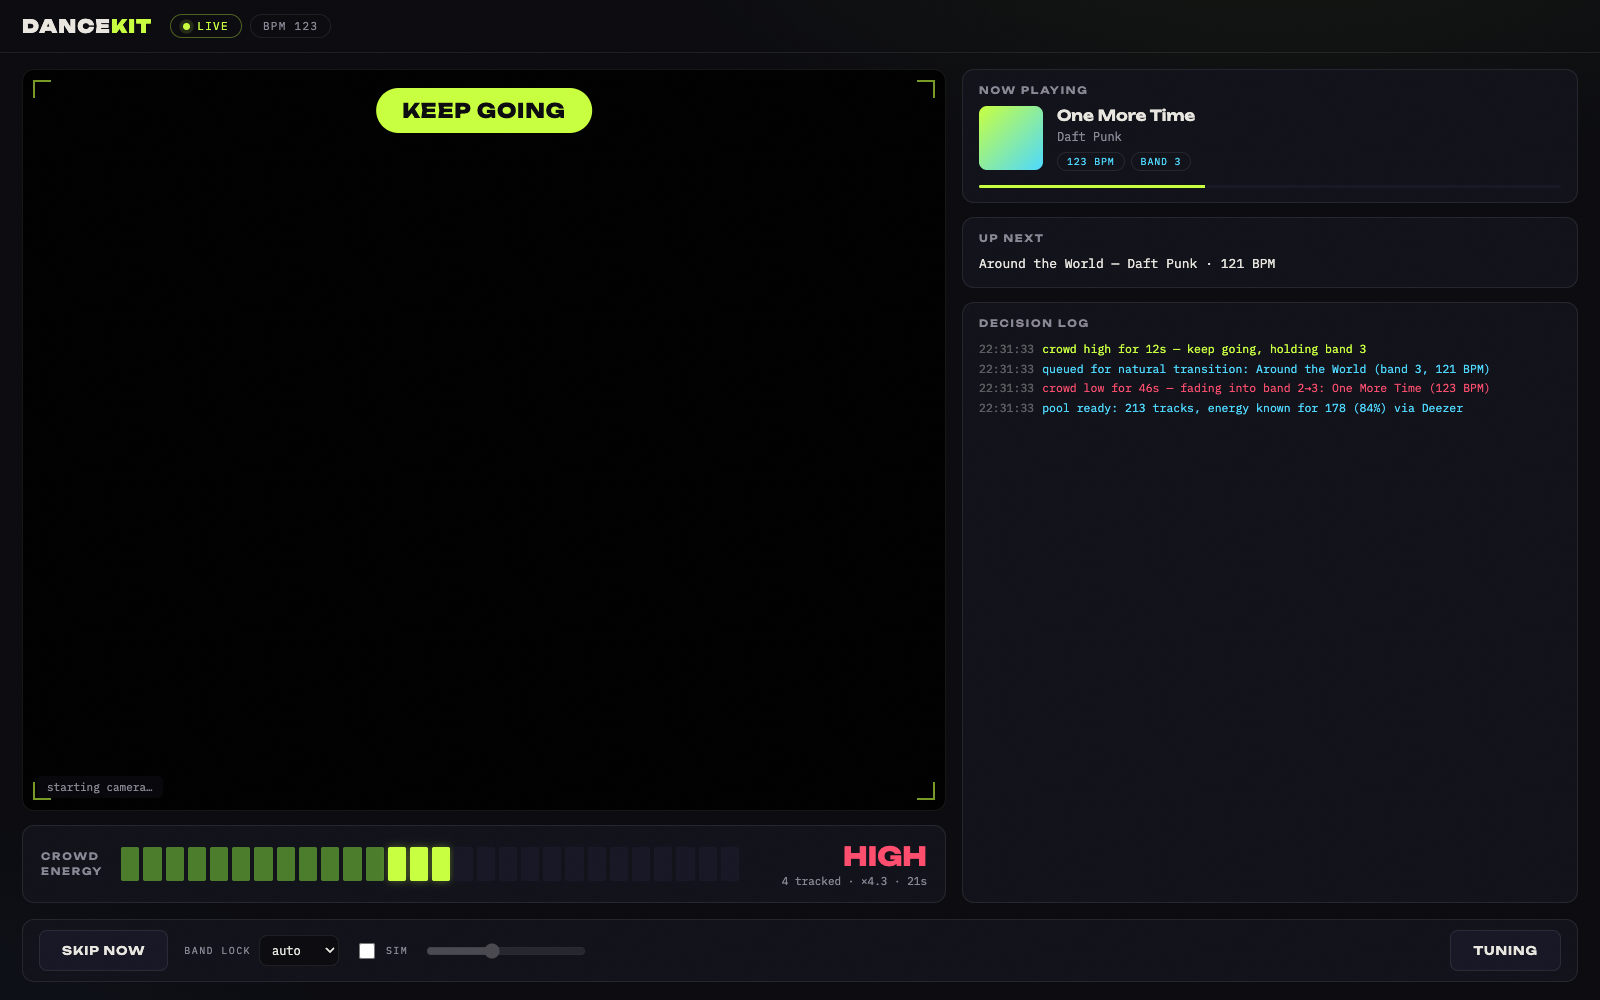
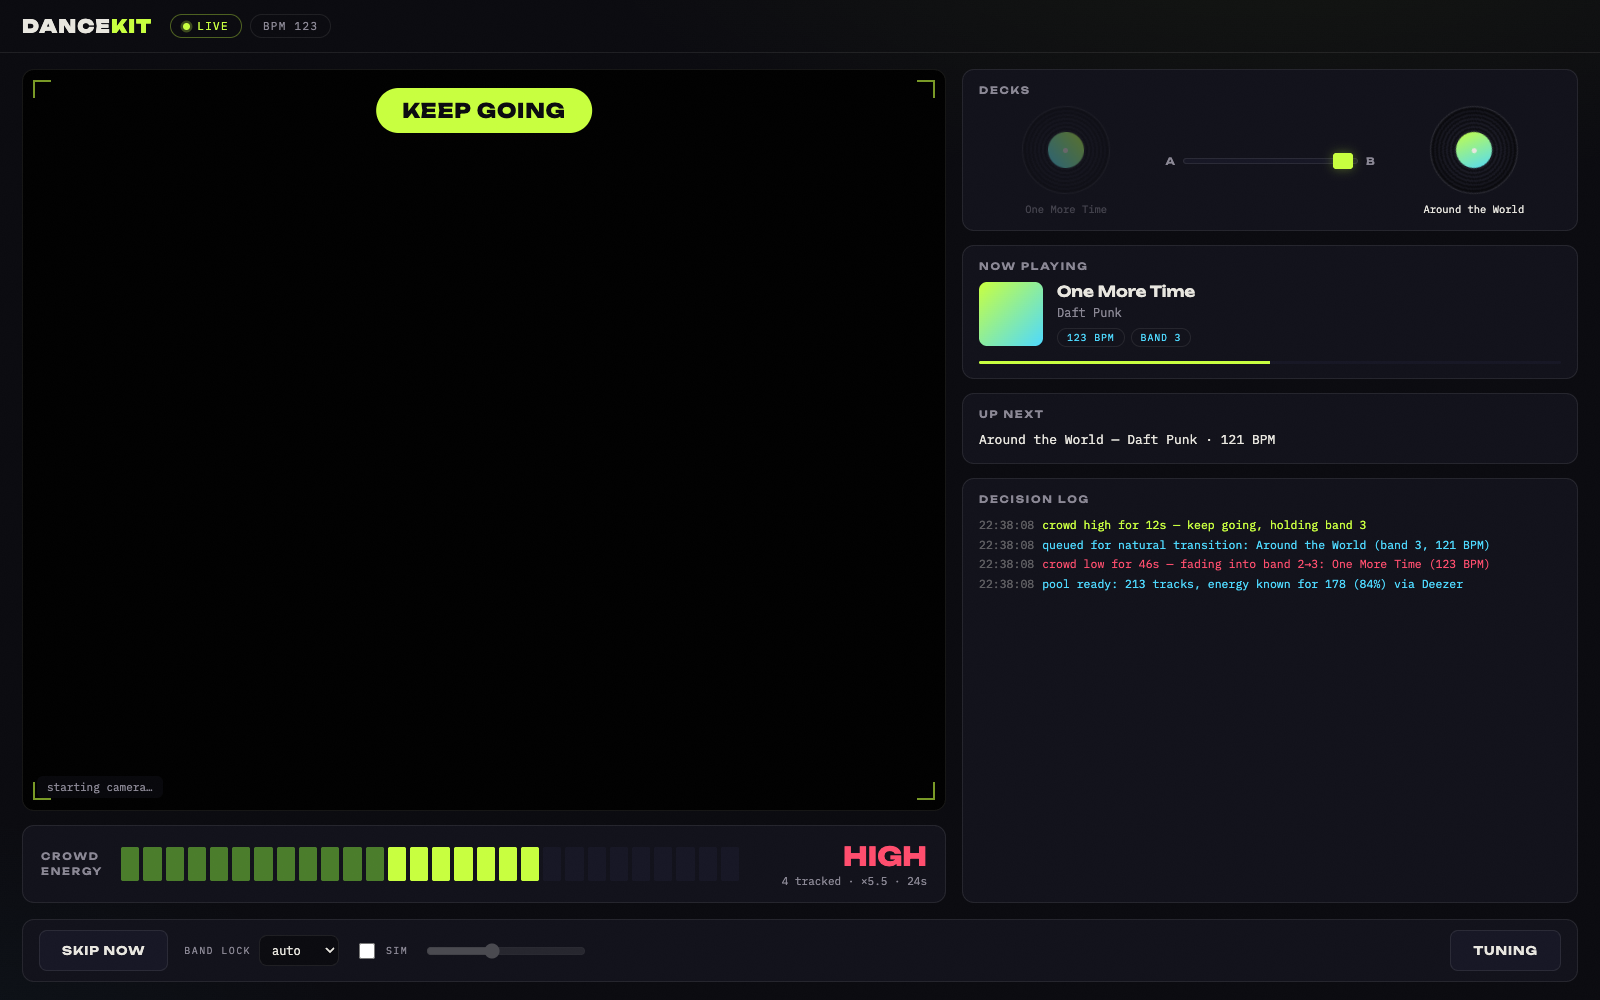
Add deck visualization with animated crossfader
Two spinning platters (album art as the record label) with a crossfader
that rides the real volume fade on forced switches; queued tracks get
cued on the idle deck, natural transitions get a quick fader flick.
Demo mode alternates decks so the animation is visible.

diff --git a/src/style.css b/src/style.css
@@ -368,6 +368,107 @@ body {
   margin-bottom: 10px;
 }
 
+/* decks + crossfader */
+.decks {
+  display: flex;
+  align-items: center;
+  gap: 12px;
+}
+
+.deck {
+  flex: 1;
+  display: flex;
+  flex-direction: column;
+  align-items: center;
+  gap: 8px;
+  min-width: 0;
+  opacity: 0.4;
+  transition: opacity 600ms ease;
+}
+
+.deck.active { opacity: 1; }
+
+.platter {
+  width: 88px;
+  height: 88px;
+  border-radius: 50%;
+  background:
+    repeating-radial-gradient(circle at 50% 50%, #0d0d13 0 2px, #181822 2px 4px);
+  border: 1px solid var(--line);
+  display: grid;
+  place-items: center;
+  position: relative;
+  box-shadow: inset 0 0 18px rgba(0, 0, 0, 0.7);
+}
+
+.platter img {
+  width: 36px;
+  height: 36px;
+  border-radius: 50%;
+  object-fit: cover;
+}
+
+.platter .spindle {
+  position: absolute;
+  width: 5px;
+  height: 5px;
+  border-radius: 50%;
+  background: var(--ink);
+}
+
+.deck.spinning .platter { animation: spin 1.8s linear infinite; }
+
+@keyframes spin {
+  to { transform: rotate(360deg); }
+}
+
+.deck-label {
+  font-size: 10.5px;
+  color: var(--dim);
+  text-align: center;
+  max-width: 110px;
+  white-space: nowrap;
+  overflow: hidden;
+  text-overflow: ellipsis;
+}
+
+.deck.active .deck-label { color: var(--ink); }
+
+.xfader {
+  display: flex;
+  align-items: center;
+  gap: 8px;
+  flex: 1.2;
+}
+
+.xfader-mark {
+  font-family: var(--font-display);
+  font-size: 10px;
+  font-weight: 600;
+  color: var(--dim);
+}
+
+.xfader-track {
+  flex: 1;
+  height: 6px;
+  background: var(--panel-2);
+  border: 1px solid var(--line);
+  border-radius: 3px;
+  position: relative;
+}
+
+.xfader-knob {
+  position: absolute;
+  top: 50%;
+  left: 8%;
+  transform: translate(-50%, -50%);
+  width: 20px;
+  height: 16px;
+  border-radius: 3px;
+  background: var(--acid);
+  box-shadow: 0 0 10px rgba(200, 255, 62, 0.35);
+}
+
 .np-body { display: flex; gap: 14px; align-items: center; }
 .np-body img { width: 64px; height: 64px; border-radius: 8px; }
 

diff --git a/src/ui/dashboard.js b/src/ui/dashboard.js
@@ -14,6 +14,15 @@ export class Dashboard {
     this.lastPlayerStateAt = 0;
     this.coachTimer = null;
 
+    // decks + crossfader
+    this.deckEls = [document.getElementById('deck-a'), document.getElementById('deck-b')];
+    this.knobEl = document.getElementById('xfader-knob');
+    this.activeDeck = 0;
+    this.deckLoaded = false;
+    this.lastTrackId = null;
+    this.expectedTrackId = null;
+    this.xfadeTimer = null;
+
     // energy meter segments
     const meter = $('energy-meter');
     this.segments = [];
@@ -87,11 +96,70 @@ export class Dashboard {
     $('sustain').textContent = `${Math.floor(signal.sustainedMs / 1000)}s`;
   }
 
+  #loadDeck(i, info) {
+    const el = this.deckEls[i];
+    const img = el.querySelector('img');
+    img.hidden = !info.art;
+    if (info.art) img.src = info.art;
+    el.querySelector('.deck-label').textContent = info.name || '—';
+  }
+
+  #moveKnob(deck, ms) {
+    this.knobEl.style.transition = `left ${ms}ms cubic-bezier(0.45, 0, 0.55, 1)`;
+    this.knobEl.style.left = deck === 0 ? '8%' : '92%';
+  }
+
+  // Slide the incoming track onto the idle deck and ride the fader across.
+  // Called with the real fade duration for forced switches; track changes the
+  // dashboard didn't see coming get a quick flick via updatePlayer.
+  beginCrossfade(info, ms) {
+    if (info.id && info.id === this.lastTrackId) return;
+    this.expectedTrackId = info.id ?? null;
+
+    // First track of the night: drop it on deck A, no ceremony.
+    if (!this.deckLoaded) {
+      this.deckLoaded = true;
+      this.#loadDeck(0, info);
+      this.deckEls[0].classList.add('active', 'spinning');
+      this.#moveKnob(0, 300);
+      return;
+    }
+
+    const from = this.activeDeck;
+    const to = 1 - from;
+    this.activeDeck = to;
+    this.#loadDeck(to, info);
+    this.deckEls[to].classList.add('active', 'spinning');
+    this.deckEls[from].classList.remove('active');
+    this.#moveKnob(to, ms);
+    clearTimeout(this.xfadeTimer);
+    this.xfadeTimer = setTimeout(() => {
+      this.deckEls[from].classList.remove('spinning');
+    }, ms);
+  }
+
   updatePlayer(state, poolTrack) {
     this.lastPlayerState = state;
     this.lastPlayerStateAt = Date.now();
     const t = state.track_window?.current_track;
     if (!t) return;
+
+    if (t.id !== this.lastTrackId) {
+      // Crossfade visual for transitions nobody announced (queued/natural,
+      // or someone changed the track from another device).
+      if (t.id !== this.expectedTrackId) {
+        this.beginCrossfade(
+          {
+            id: t.id,
+            name: t.name,
+            art: t.album?.images?.[t.album.images.length - 1]?.url || t.album?.images?.[0]?.url,
+          },
+          1100
+        );
+      }
+      this.lastTrackId = t.id;
+      this.expectedTrackId = null;
+    }
 
     $('np-name').textContent = t.name;
     $('np-artist').textContent = t.artists.map((a) => a.name).join(', ');
@@ -121,6 +189,8 @@ export class Dashboard {
     } else {
       el.classList.remove('dim');
       el.textContent = `${track.name} — ${track.artists}${track.bpm ? ` · ${Math.round(track.bpm)} BPM` : ''}`;
+      // Cue the upcoming record on the idle deck.
+      if (this.deckLoaded) this.#loadDeck(1 - this.activeDeck, { name: track.name, art: track.image });
     }
   }
 

diff --git a/index.html b/index.html
@@ -84,6 +84,25 @@
         </section>
 
         <aside class="booth">
+            <div class="card decks-card">
+                <div class="card-title">DECKS</div>
+                <div class="decks">
+                    <div class="deck" id="deck-a">
+                        <div class="platter"><img alt="" hidden><span class="spindle"></span></div>
+                        <div class="deck-label">—</div>
+                    </div>
+                    <div class="xfader">
+                        <span class="xfader-mark">A</span>
+                        <div class="xfader-track"><div class="xfader-knob" id="xfader-knob"></div></div>
+                        <span class="xfader-mark">B</span>
+                    </div>
+                    <div class="deck" id="deck-b">
+                        <div class="platter"><img alt="" hidden><span class="spindle"></span></div>
+                        <div class="deck-label">—</div>
+                    </div>
+                </div>
+            </div>
+
             <div class="card now-playing" id="np">
                 <div class="card-title">NOW PLAYING</div>
                 <div class="np-body">

diff --git a/src/main.js b/src/main.js
@@ -98,6 +98,7 @@ async function startSession(playlists, reportProgress) {
     player,
     config,
     onError: (msg) => dashboard?.addLog('info', msg),
+    onTransition: (info, ms) => dashboard?.beginCrossfade(info, ms),
   });
   const brain = new DJBrain({
     pool,
@@ -190,6 +191,17 @@ function demoMode() {
   dashboard.addLog('switch', 'crowd low for 46s — fading into band 2→3: One More Time (123 BPM)');
   dashboard.addLog('info', 'queued for natural transition: Around the World (band 3, 121 BPM)');
   dashboard.addLog('keep', 'crowd high for 12s — keep going, holding band 3');
+
+  // Alternate the decks so the crossfader animation is visible in demo.
+  const demoTracks = [
+    { id: 'demo-a', name: 'One More Time', art },
+    { id: 'demo-b', name: 'Around the World', art },
+  ];
+  let deckFlip = 0;
+  setInterval(() => {
+    deckFlip = 1 - deckFlip;
+    dashboard.beginCrossfade(demoTracks[deckFlip], 4000);
+  }, 7000);
 
   const start = performance.now();
   setInterval(() => {

diff --git a/src/dj/transitions.js b/src/dj/transitions.js
@@ -11,7 +11,7 @@ async function ramp(player, from, to, ms) {
 // Executor between the brain's decisions and the Spotify player.
 // Spotify streams can't overlap (one DRM'd stream per account), so "mixing"
 // a forced switch means fade out → swap track → fade in via player volume.
-export function createActions({ deviceId, player, config, onError }) {
+export function createActions({ deviceId, player, config, onError, onTransition }) {
   let lastQueuedUri = null;
   let baseVolume = 0.8;
 
@@ -20,6 +20,10 @@ export function createActions({ deviceId, player, config, onError }) {
       const doFade = fade && player;
       try {
         if (doFade) {
+          onTransition?.(
+            { id: track.id, name: track.name, art: track.image },
+            config.fadeMs * 1.7 // fade-out + fade-in
+          );
           const v = await player.getVolume();
           if (v > 0.05) baseVolume = v; // don't capture mid-fade silence as the target
           await ramp(player, baseVolume, 0, config.fadeMs);